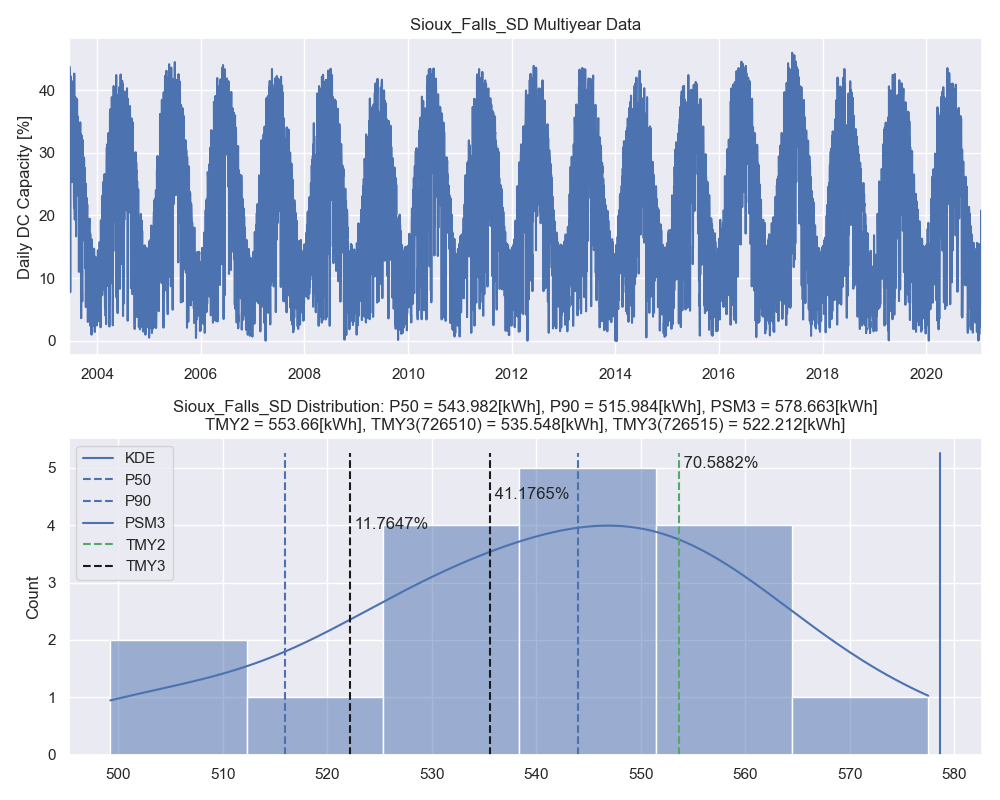
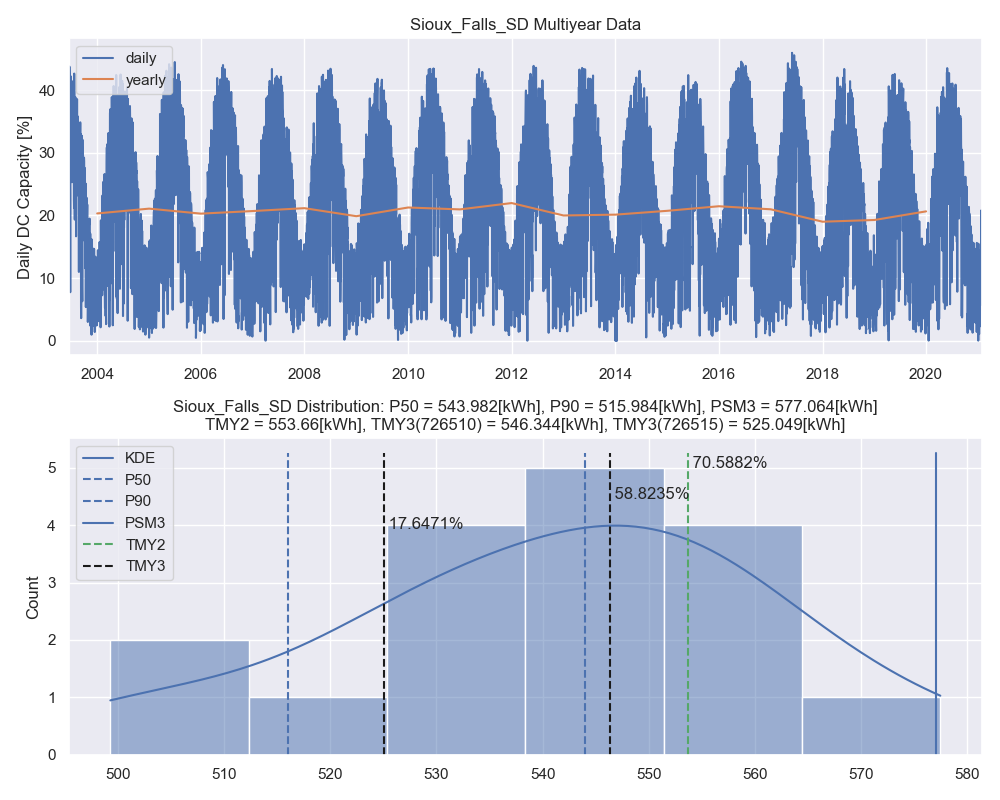
add annual cp to daily cp plot

diff --git a/multiyear_data.py b/multiyear_data.py
@@ -294,7 +294,10 @@ if __name__ == "__main__":
     # make plots
     f, ax = plt.subplots(2, 1, figsize=(10, 8), num=SITE)
     yield_daily = pd.concat(EDAILY.values()) / 300.0 / 24.0 * 100.0
-    yield_daily.plot(ax=ax[0])
+    yield_daily.plot(ax=ax[0], label='daily')
+    yield_yearly = EYEAR*1000 / 300.0 / 8760.0 * 100.0
+    yield_yearly.index = pd.date_range(start=f'{EYEAR.index[0]}', end=f'{int(EYEAR.index[-1])+1}',freq='Y')
+    yield_yearly.plot(ax=ax[0], label='yearly')
     ax[0].set_ylabel('Daily DC Capacity [%]')
     ax[0].set_title(f'{SITE} Multiyear Data')
     sns.histplot(EYEAR.values, kde=True, ax=ax[1])
